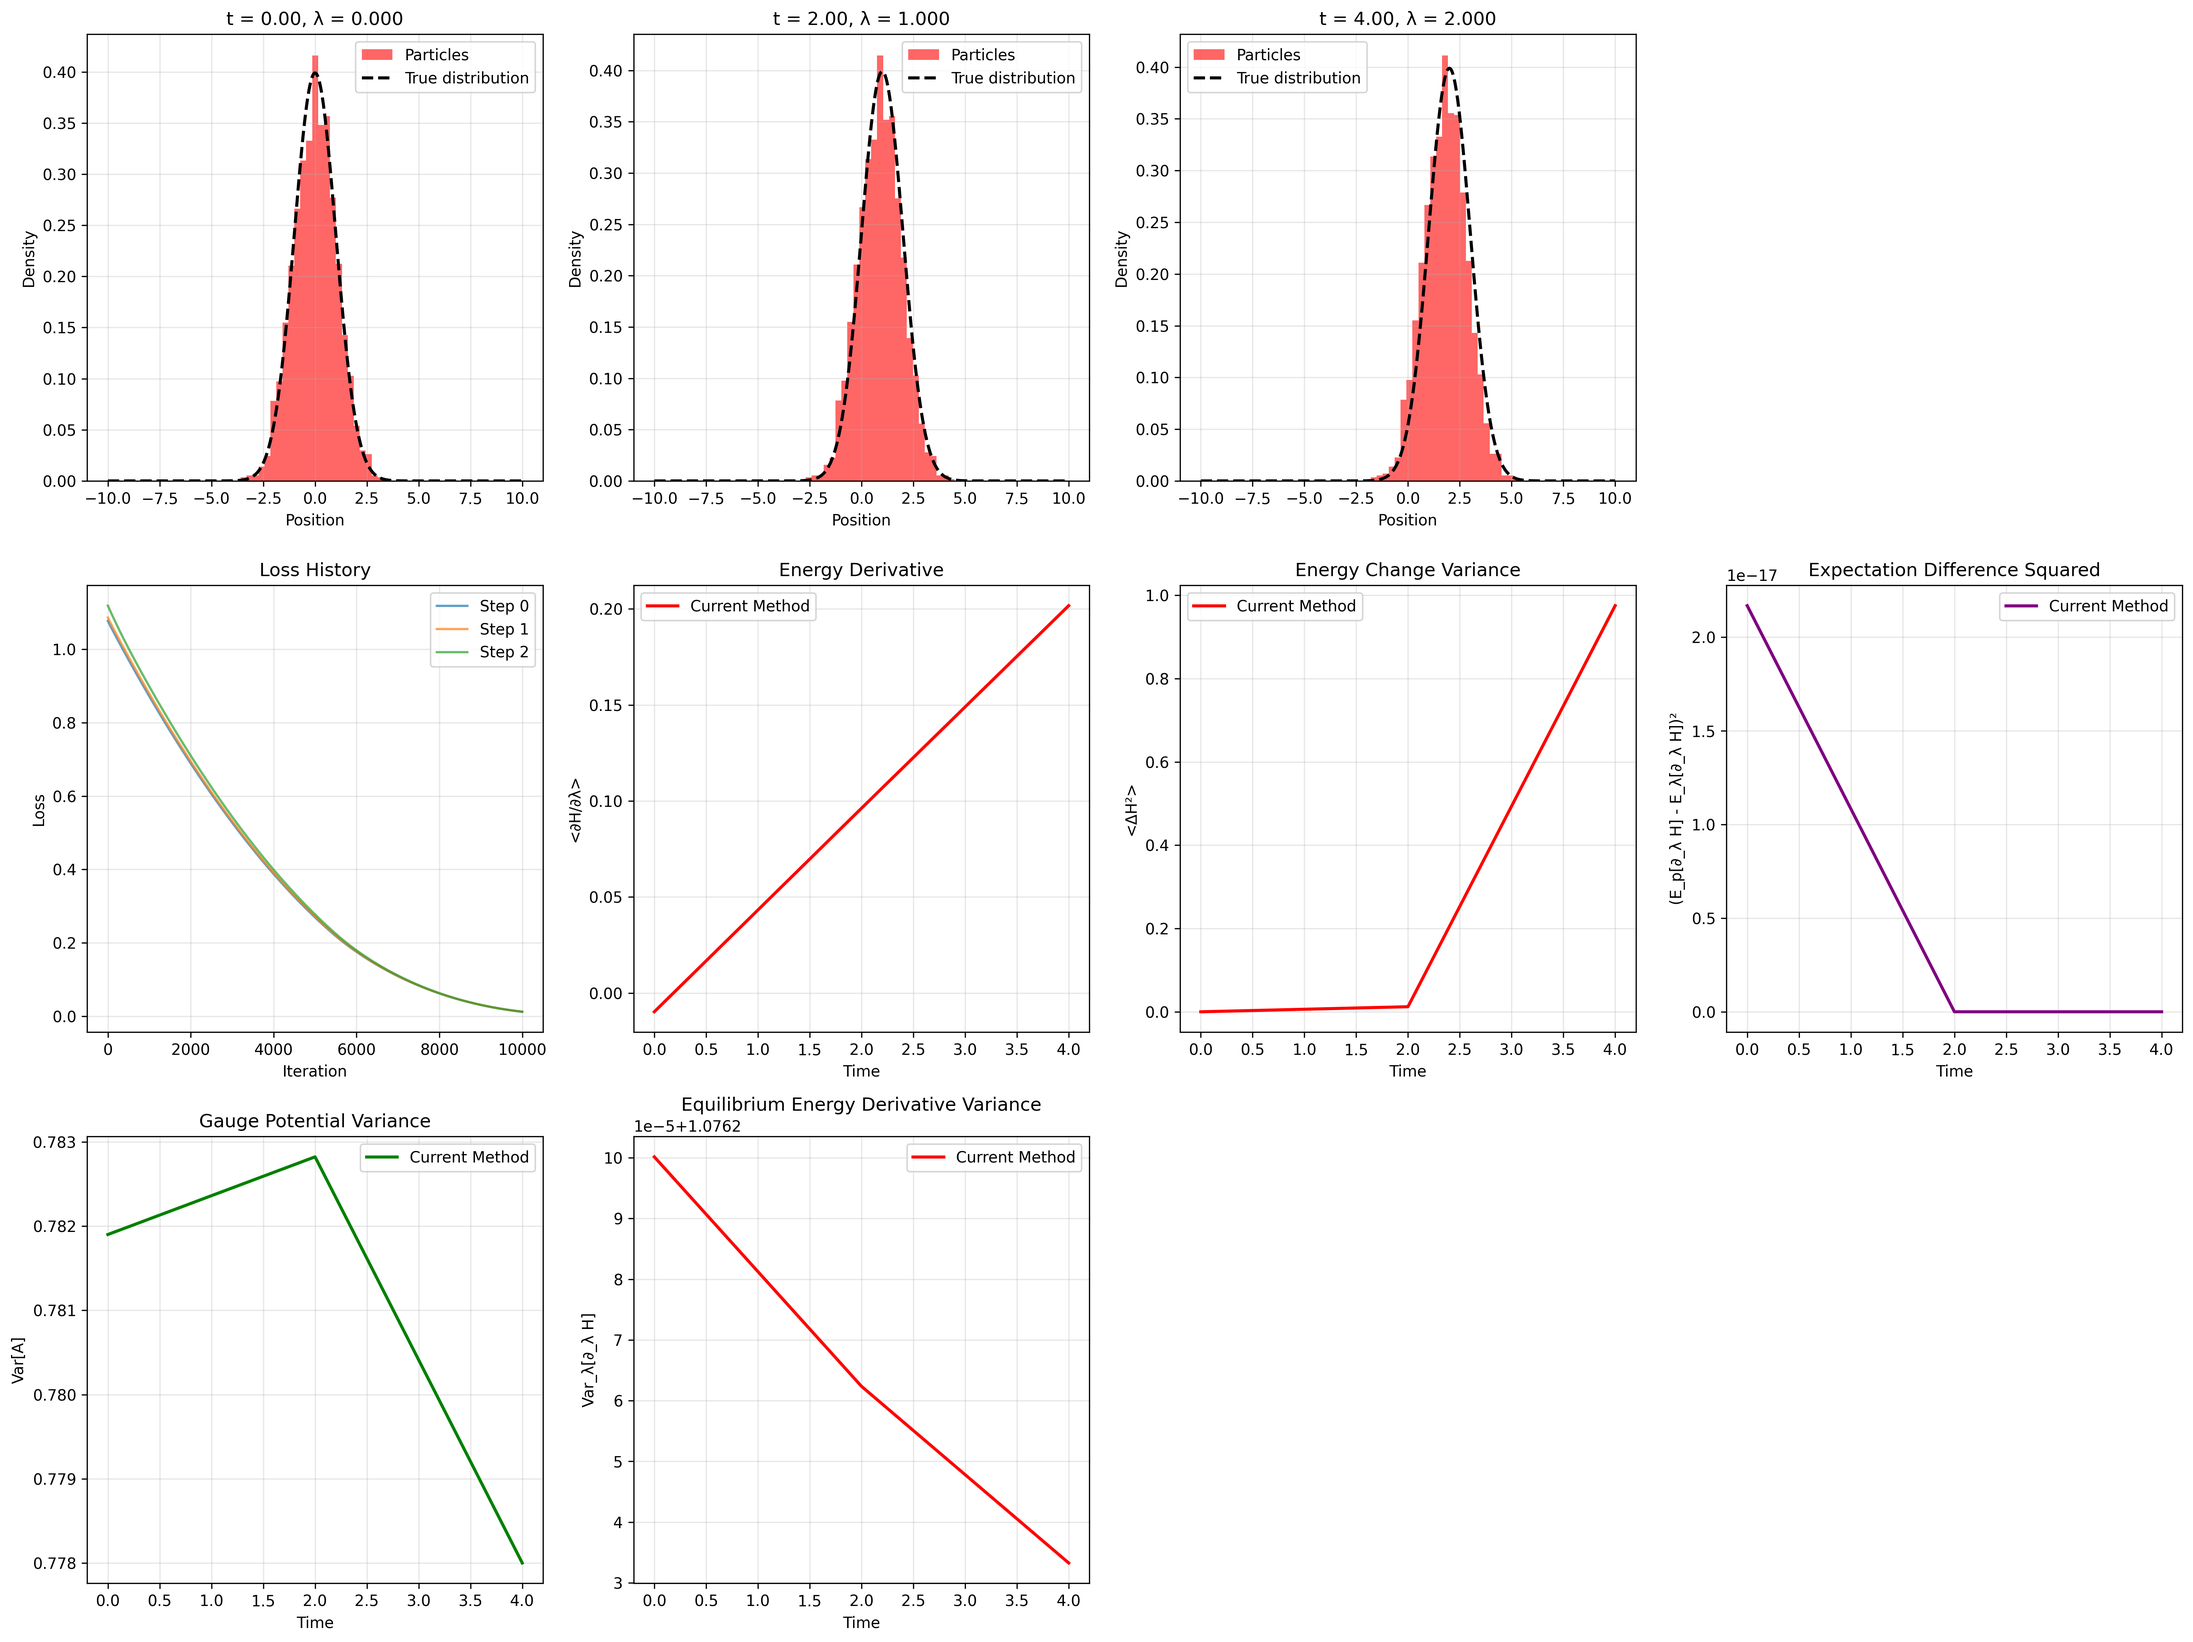
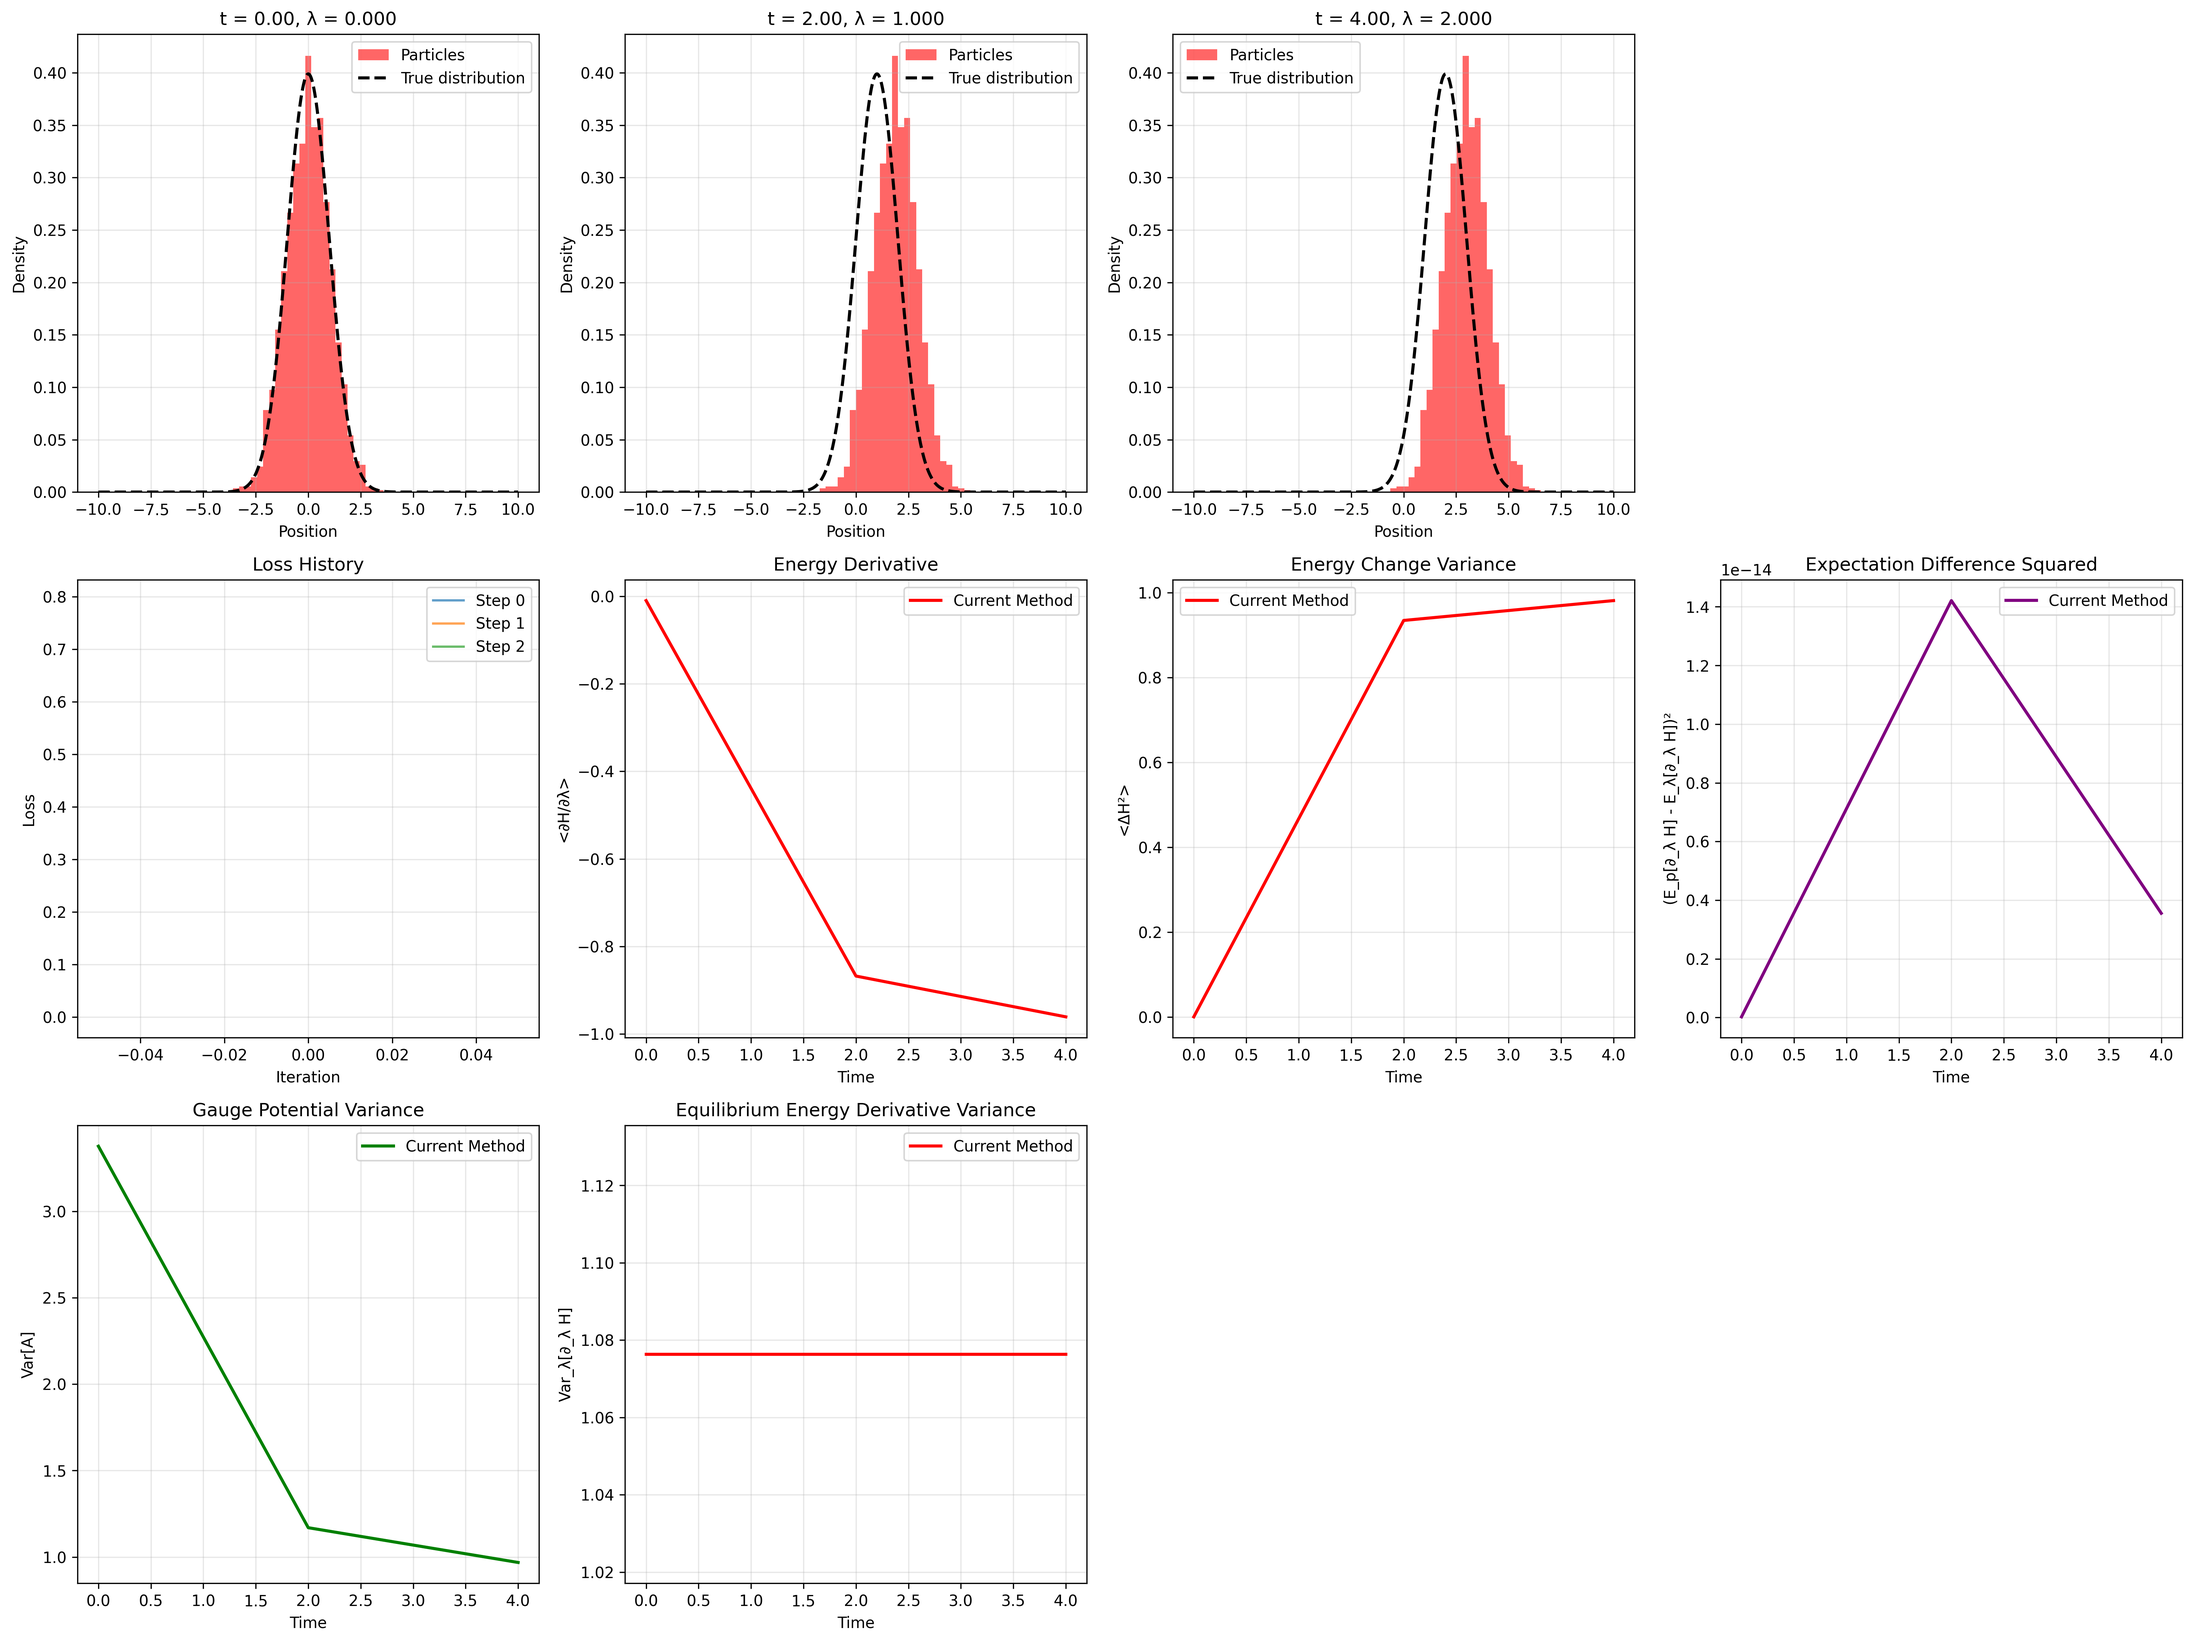
backup: hermites are not quite working, but run

diff --git a/src/fitting.py b/src/fitting.py
@@ -97,6 +97,10 @@ def fit_gauge_potential(lam, samples, make_T, make_V, A_ansatz, num_iters, lr, u
         use_regularization: Whether to use L2 regularization
         weights: Optional array of weights for weighted expectation (shape (N,))
     """
+    # Check if this is a HermiteAnsatz and use special fitting
+    if hasattr(A_ansatz, 'ansatz_type') and A_ansatz.ansatz_type == 'hermite':
+        return fit_hermite_ansatz(lam, samples, make_T, make_V, A_ansatz, num_iters, lr, use_regularization, weights)
+    
     # Check input samples for NaNs
     check_nans("input_samples", samples)
     
@@ -173,7 +177,7 @@ def fit_gauge_potential(lam, samples, make_T, make_V, A_ansatz, num_iters, lr, u
     print(f"Fitting completed after {len(loss_history)} iterations")
     return A_ansatz, loss_history
 
-def fit_hermite_ansatz(lam, samples, make_T, make_V, hermite_ansatz, num_iters, lr, use_regularization=False, weights=None):
+def fit_hermite_ansatz_optimize(lam, samples, make_T, make_V, hermite_ansatz, num_iters, lr, use_regularization=False, weights=None):
     """
     Special fitting function for HermiteAnsatz that only optimizes g(p) coefficients (alpha_coeffs)
     while keeping f(q) parameters fixed.
@@ -260,6 +264,111 @@ def fit_hermite_ansatz(lam, samples, make_T, make_V, hermite_ansatz, num_iters, 
             break
 
     print(f"Fitting completed after {len(loss_history)} iterations")
+    
+    # Print learned coefficients
+    hermite_ansatz.print_coefficients()
+    
+    return hermite_ansatz, loss_history
+
+
+def fit_hermite_ansatz(lam, samples, make_T, make_V, hermite_ansatz, num_iters, lr, use_regularization=False, weights=None):
+    """
+    Fit HermiteAnsatz using the tridiagonal matrix optimization approach.
+    
+    This function constructs the tridiagonal matrix M^(o) and linear term b^(o)
+    from the mathematical derivation, then solves the linear system M^(o) α̃^(o) = -b^(o).
+    
+    Args:
+        lam: Current lambda value
+        samples: Array of shape (N, 2*dim) where first dim columns are q and last dim columns are p
+        make_T: Function to create kinetic energy
+        make_V: Function to create potential energy
+        hermite_ansatz: HermiteAnsatz instance to fit
+        num_iters: Number of optimization iterations (ignored for tridiagonal approach)
+        lr: Learning rate (ignored for tridiagonal approach)
+        use_regularization: Whether to use L2 regularization (ignored for tridiagonal approach)
+        weights: Optional array of weights for weighted expectation (shape (N,))
+        
+    Returns:
+        Updated hermite_ansatz and loss history
+    """
+    print("  Using tridiagonal matrix optimization for Hermite ansatz")
+    
+    # Check input samples for NaNs
+    check_nans("input_samples", samples)
+    
+    # Import the existing functions from ansatze.py
+    from .ansatze import construct_hermite_tridiagonal_matrix, compute_linear_term_coefficient
+    
+    # Get f(q) function from the ansatz
+    f_function = hermite_ansatz.f_ansatz
+    
+    # Use existing functions to construct tridiagonal matrix
+    diagonal, upper_diagonal = construct_hermite_tridiagonal_matrix(
+        f_function, samples, make_V, lam, hermite_ansatz.max_order
+    )
+    
+    # Use existing function to compute linear term
+    L_q = compute_linear_term_coefficient(f_function, samples, make_V, lam)
+    
+    print(f"  Linear term: L_q={L_q:.6f}")
+    
+    # Construct tridiagonal matrix for odd sector
+    num_coeffs = len(hermite_ansatz.alpha_coeffs)
+    
+    # Build full tridiagonal matrix for pretty printing and solving
+    M = jnp.zeros((num_coeffs, num_coeffs))
+    for i in range(num_coeffs):
+        M = M.at[i, i].set(diagonal[i])
+        if i < num_coeffs - 1:
+            M = M.at[i, i+1].set(upper_diagonal[i])
+            M = M.at[i+1, i].set(upper_diagonal[i])
+    
+    # Pretty print the tridiagonal matrix M^(o)
+    print(f"  Tridiagonal matrix M^(o) ({num_coeffs}x{num_coeffs}):")
+    for i in range(num_coeffs):
+        row_str = "    ["
+        for j in range(num_coeffs):
+            if j > 0:
+                row_str += " "
+            if abs(M[i, j]) < 1e-10:
+                row_str += "0.000000"
+            else:
+                row_str += f"{M[i, j]:8.6f}"
+        row_str += "]"
+        print(row_str)
+    
+    # Construct right-hand side vector b^(o)
+    b_vector = jnp.zeros(num_coeffs)
+    b_vector = b_vector.at[0].set(2.0 * L_q)  # Only first component is non-zero
+    
+    print(f"  Right-hand side b^(o): {b_vector}")
+    
+    # Solve the linear system M^(o) α̃^(o) = -b^(o)
+    # Use scipy's efficient tridiagonal solver
+    import scipy.linalg
+    alpha_optimized = scipy.linalg.solve_banded(
+        (1, 1),  # Upper and lower bandwidth
+        jnp.vstack([
+            jnp.concatenate([jnp.array([0]), upper_diagonal]),  # Upper diagonal
+            diagonal,  # Main diagonal
+            jnp.concatenate([upper_diagonal, jnp.array([0])])   # Lower diagonal
+        ]),
+        -b_vector
+    )
+    
+    print(f"  Solution α̃^(o): {alpha_optimized}")
+    
+    # Update the ansatz with optimized coefficients
+    hermite_ansatz = eqx.tree_at(lambda m: m.alpha_coeffs, hermite_ansatz, alpha_optimized)
+    
+    # Compute final loss for comparison
+    qp_batch = jnp.array(samples)
+    final_loss = calculate_gauge_potential_loss(lam, qp_batch, make_T, make_V, hermite_ansatz, use_regularization, weights)
+    loss_history = [final_loss]
+    
+    print(f"  Tridiagonal optimization completed")
+    print(f"  Final loss: {final_loss:.6f}")
     
     # Print learned coefficients
     hermite_ansatz.print_coefficients()

diff --git a/src/simulation.py b/src/simulation.py
@@ -166,21 +166,12 @@ def simulate(simulation_type, M, N_steps, delta_t, momentum_refresh_interval,
                         weights = jnp.exp(log_weights - jnp.max(log_weights))  # Numerical stability
                         weights = weights / jnp.sum(weights)  # Normalize
                     
-                    # Check if this is a HermiteAnsatz and use special fitting
-                    if hasattr(A_ansatz, 'ansatz_type') and A_ansatz.ansatz_type == 'hermite':
-                        from .fitting import fit_hermite_ansatz
-                        A_ansatz, loss_history = fit_hermite_ansatz(lam_k, samples,
+                    # Fit the gauge potential (automatically handles Hermite ansatz special case)
+                    A_ansatz, loss_history = fit_gauge_potential(lam_k, samples,
                                                 make_T=make_T, make_V=make_V,
-                                                hermite_ansatz=A_ansatz,  # Pass current ansatz for warm start
+                                                A_ansatz=A_ansatz,  # Pass current ansatz for warm start
                                                 num_iters=num_iters, lr=learning_rate,
                                                 use_regularization=False, weights=weights)
-                    else:
-                        # Use standard fitting for other ansatzes
-                        A_ansatz, loss_history = fit_gauge_potential(lam_k, samples,
-                                                    make_T=make_T, make_V=make_V,
-                                                    A_ansatz=A_ansatz,  # Pass current ansatz for warm start
-                                                    num_iters=num_iters, lr=learning_rate,
-                                                    use_regularization=False, weights=weights)
                     
                     # Print final loss
                     final_loss = loss_history[-1] if loss_history else float('inf')

diff --git a/src/ansatze.py b/src/ansatze.py
@@ -519,13 +519,8 @@ def construct_hermite_tridiagonal_matrix(f_function, samples, make_V, lam, max_o
     # Construct tridiagonal matrix for odd sector
     num_coeffs = (max_order + 1) // 2  # Number of odd indices ≤ max_order
     
-    diagonal = jnp.zeros(num_coeffs)
-    upper_diagonal = jnp.zeros(num_coeffs - 1)
-    
-    for k in range(num_coeffs):
-        diagonal[k] = c0 * (2*k + 2) + c1 * (2*k + 1)
-        if k < num_coeffs - 1:
-            upper_diagonal[k] = c2 * jnp.sqrt((2*k + 2) * (2*k + 3))
+    diagonal = jnp.array([c0 * (2*k + 2) + c1 * (2*k + 1) for k in range(num_coeffs)])
+    upper_diagonal = jnp.array([c2 * jnp.sqrt((2*k + 2) * (2*k + 3)) for k in range(num_coeffs - 1)])
     
     return diagonal, upper_diagonal
 
@@ -547,9 +542,21 @@ def compute_linear_term_coefficient(f_function, samples, make_V, lam):
     dim = qp_batch.shape[1] // 2
     qs = qp_batch[:, :dim]
     
-    # Compute ∂²V/∂q∂λ
+    # Compute ∂²V/∂q∂λ using automatic differentiation
     def d2V_dqdlam(q):
-        return jax.grad(lambda q, lam: jax.grad(make_V(lam), argnums=0)(q), argnums=1)(q, lam)
+        # Define a function that takes both q and lam as arguments
+        def V_with_lam(q, lam):
+            V_func = make_V(lam)
+            return V_func(q)
+        
+        # Compute ∂²V/∂q∂λ = ∂/∂λ (∂V/∂q)
+        # First compute ∂V/∂q, then take ∂/∂λ of that
+        def grad_V_wrt_q(q, lam):
+            return jax.grad(V_with_lam, argnums=0)(q, lam)
+        
+        # Use jacfwd to compute the Jacobian of grad_V_wrt_q with respect to λ
+        # This gives us ∂²V/∂q∂λ (the Jacobian of the gradient)
+        return jax.jacfwd(grad_V_wrt_q, argnums=1)(q, lam)
     
     f_vals = jax.vmap(f_function)(qs)
     d2V_dqdlam_vals = jax.vmap(d2V_dqdlam)(qs)
